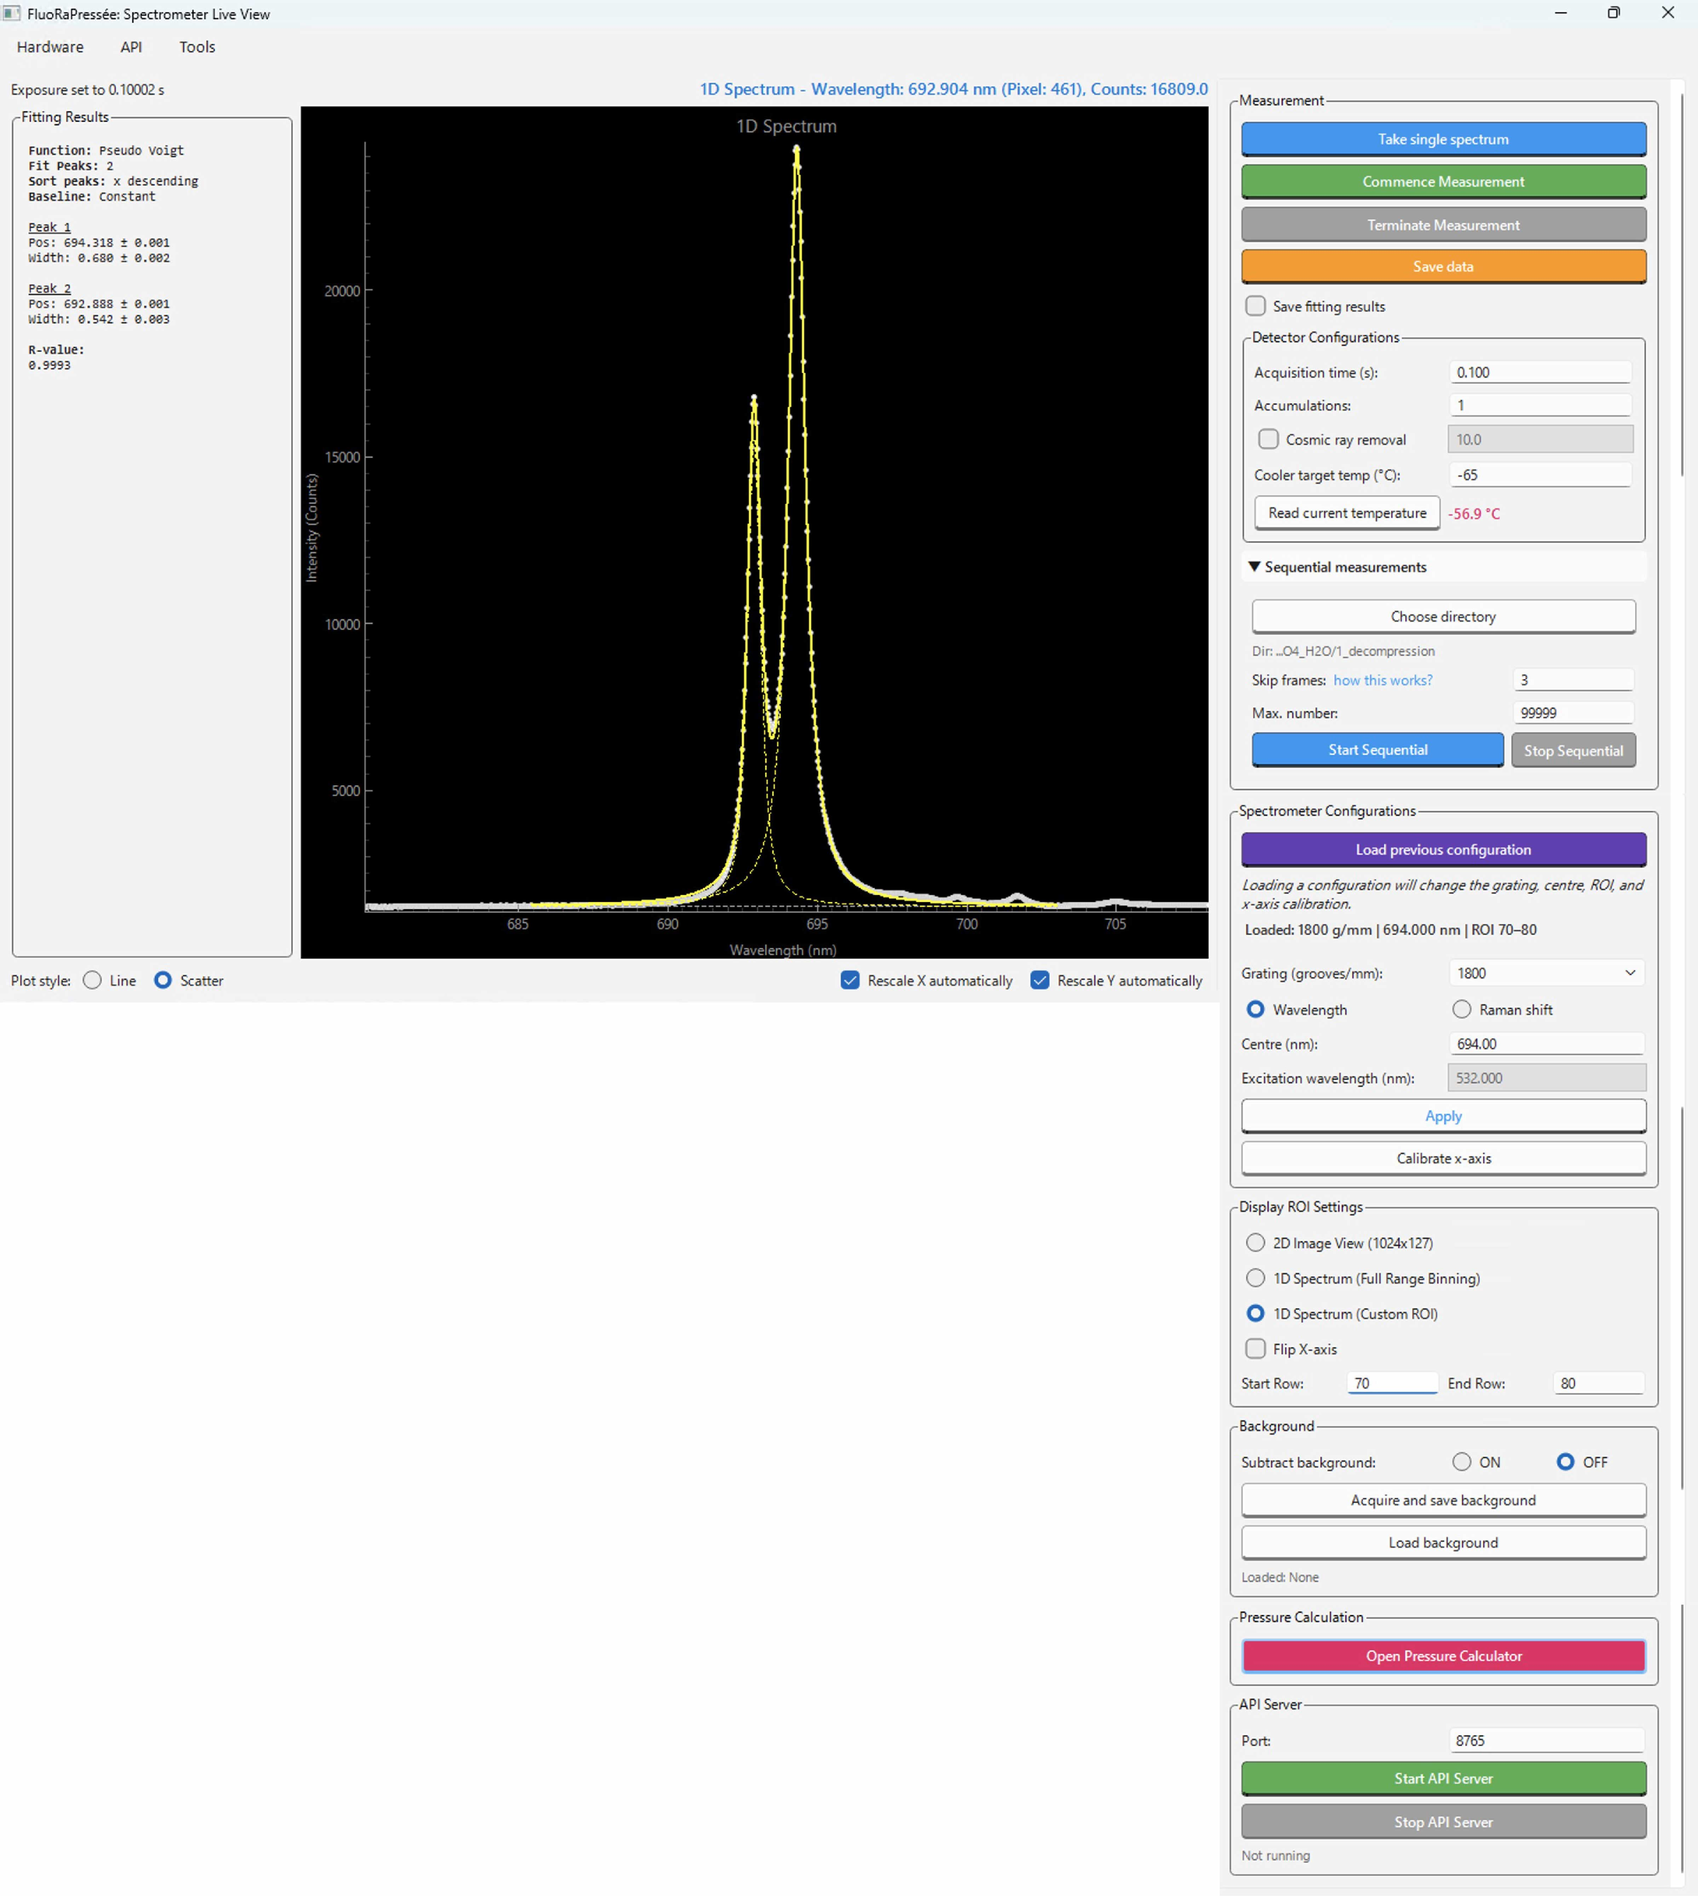
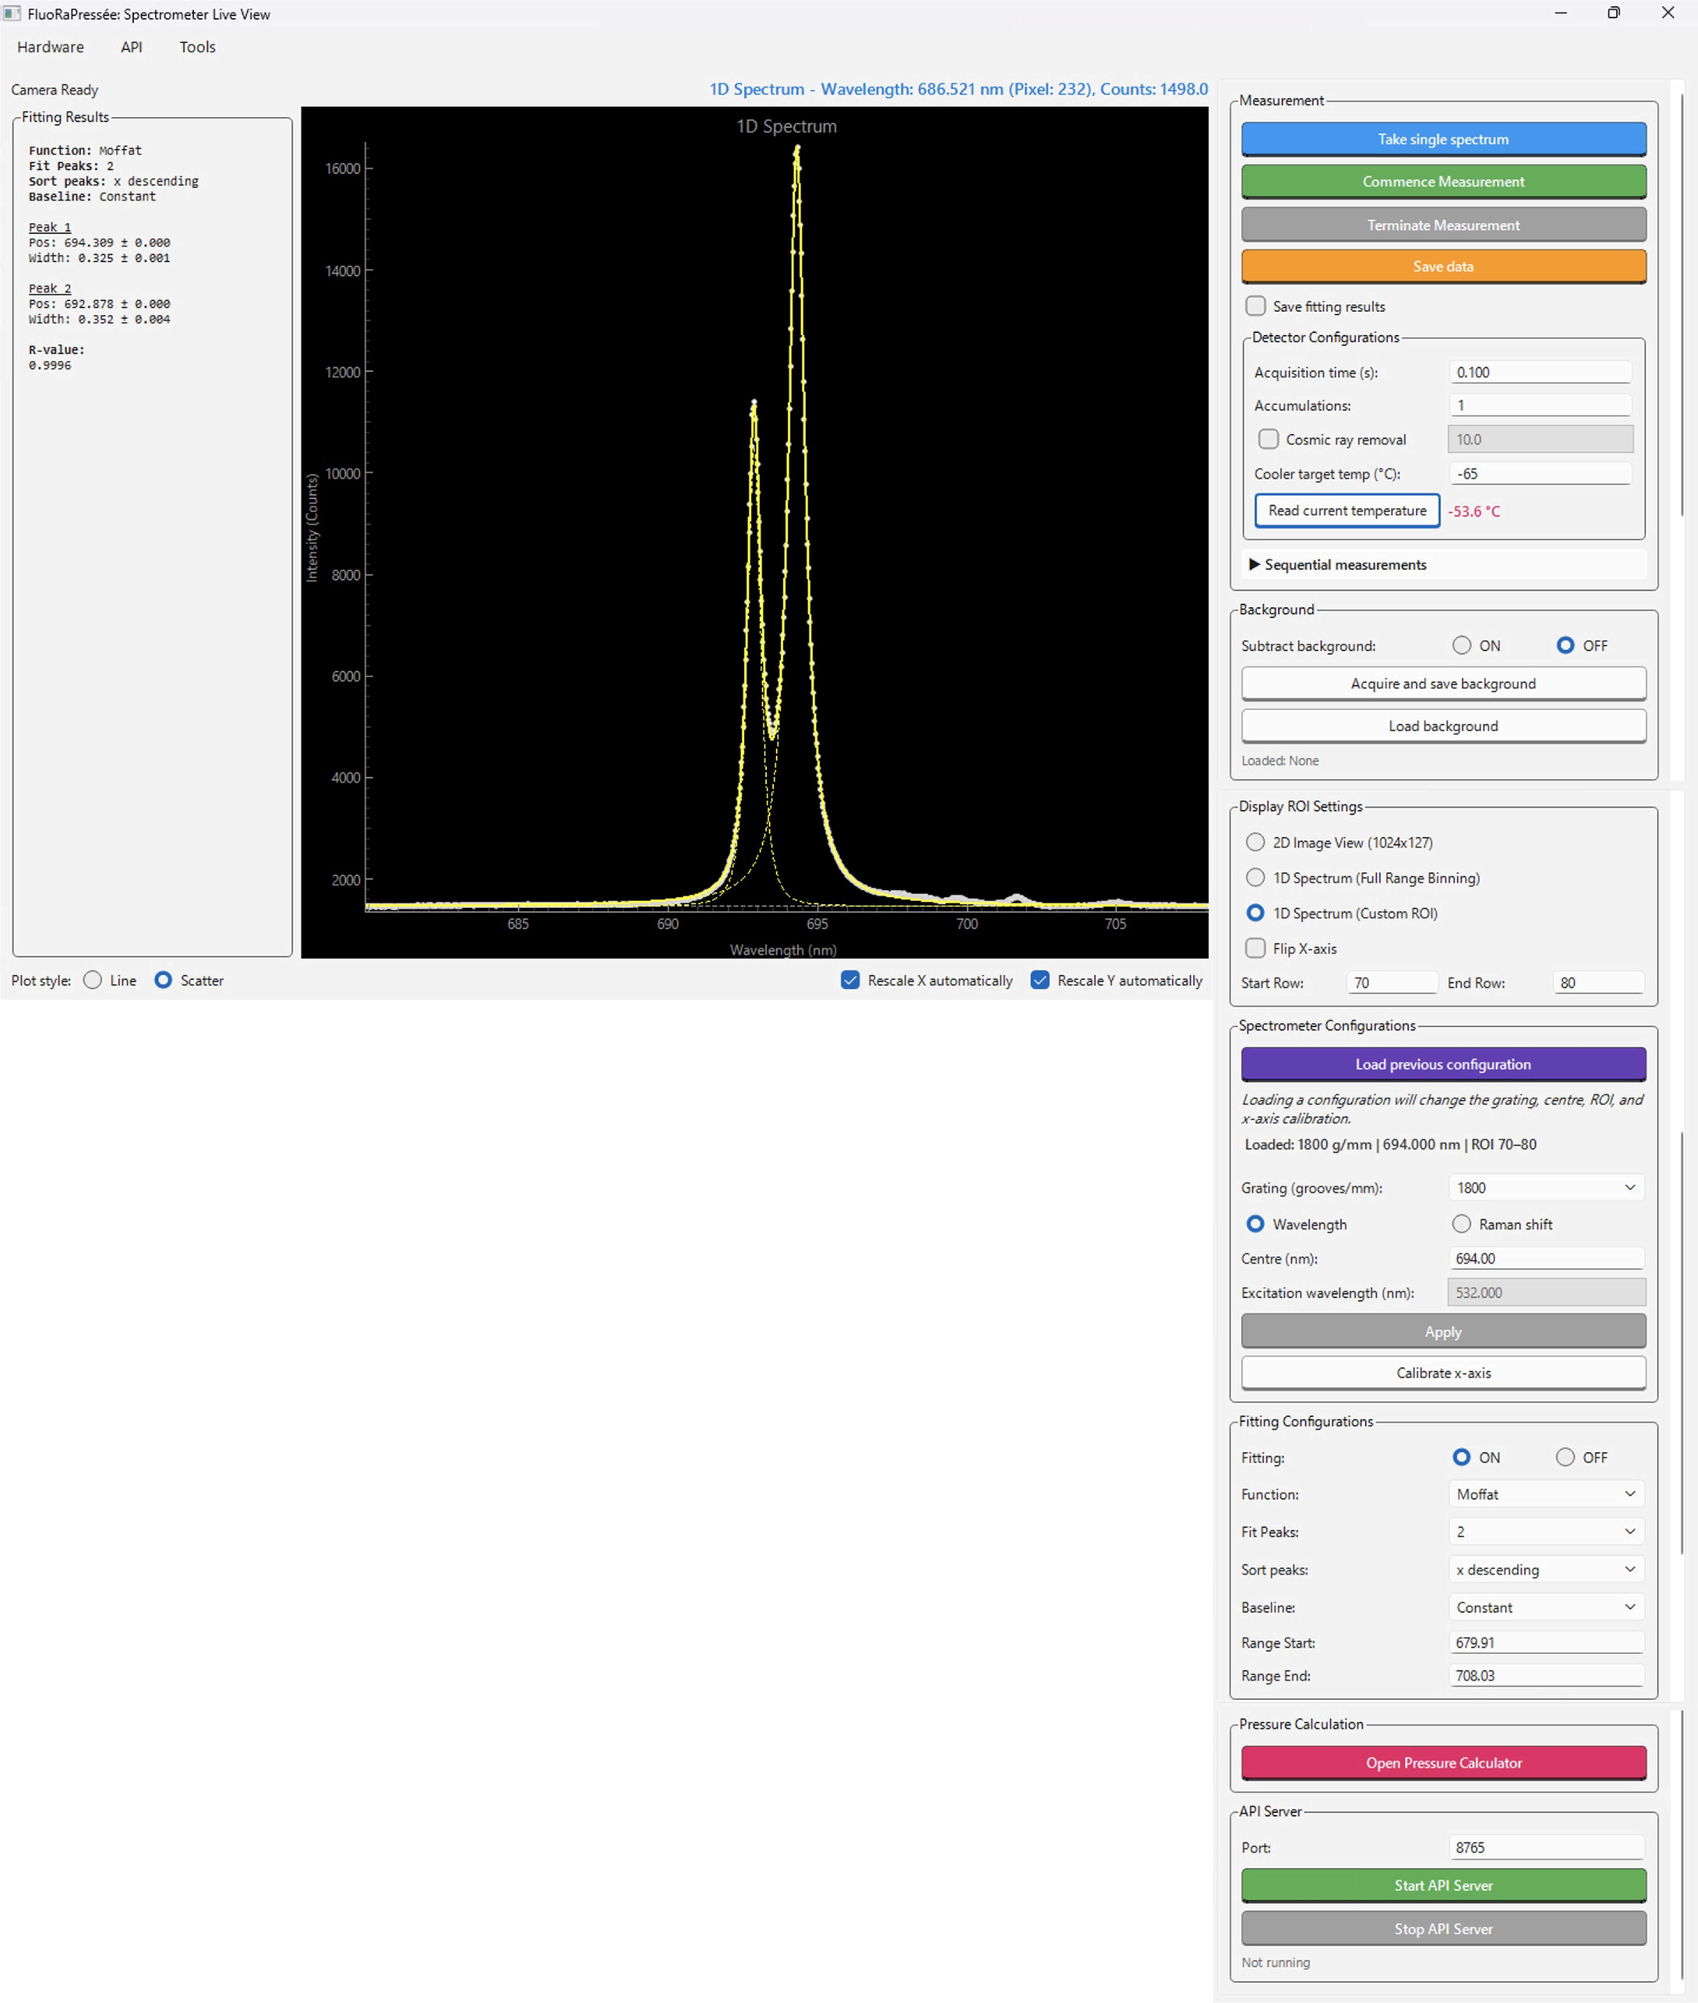
update doc

diff --git a/src/ui/main_window.py b/src/ui/main_window.py
@@ -491,7 +491,7 @@ class SpectrometerGUI(QMainWindow, ConfigMixin, FileIOMixin, SpectrometerControl
         bg_group.setLayout(bg_layout)
         controls_layout.addWidget(bg_group)
 
-        roi_group = QGroupBox("Display ROI Settings")
+        roi_group = QGroupBox("ROI Settings")
         roi_layout = QVBoxLayout()
         self.radio_2d = QRadioButton("2D Image View")
         self.radio_1d_full = QRadioButton("1D Spectrum (Full Range Binning)")

diff --git a/docs-site/docs/usage/pressure-calculation/index.md b/docs-site/docs/usage/pressure-calculation/index.md
@@ -1,32 +1,30 @@
 ---
 sidebar_position: 1
-title: 圧力計算
-description: 圧力計算ウィンドウで使えるセンサー・圧力スケール・温度補正の一覧と注意点
+title: 圧力マーカーによる圧力計算
+description: 圧力計算ウィンドウで使える圧力マーカー・圧力スケール・温度補正の一覧と注意点
 ---
 
-# 圧力計算
-
-高圧実験で用いる各種センサー（蛍光・Ramanシフト）の測定ピーク位置から圧力を求める、「圧力計算ウィンドウ」（メイン画面の「Open pressure calculator」ボタン、またはAnalysis Modeの右側パネル）についてまとめます。
+# 圧力マーカーによる圧力計算
 
 <img src={require('@site/static/img/usage_pressure_calculator.jpg').default} style={{maxWidth: '480px'}} />
 
-## センサーの種類と対応する横軸
+## 圧力マーカーの種類と対応する横軸
 
-圧力計算ウィンドウで選べるセンサーは、横軸のモード（波長 nm / Raman shift cm<sup>-1</sup>）によって以下のように分かれます。
+圧力計算ウィンドウで選べる圧力マーカーは、横軸のモード（波長 nm / Raman shift cm<sup>-1</sup>）によって以下のように分かれます。
 
-- **波長 (nm) モード・蛍光センサー**: [Ruby](ruby.md)、[Sm<sup>2+</sup>:SrB<sub>4</sub>O<sub>7</sub>](sm-srb4o7.md)、[Sm<sup>2+</sup>:SrFCl](sm-srfcl.md)、[Sm<sup>3+</sup>:YAG](sm-yag.md)
-- **Raman shift (cm<sup>-1</sup>) モード・Ramanセンサー**: [<sup>13</sup>C diamond 1st order](diamond-13c.md)、[Cubic BN TO](cubic-bn.md)、[Zircon B1g](zircon.md)、[Quartz 464 cm<sup>-1</sup>](quartz-464.md)、[Quartz 128 cm<sup>-1</sup>](quartz-128.md)
-- **Raman shift (cm<sup>-1</sup>) モード・専用フィットが必要なセンサー**: [Diamond Raman Edge](diamond-raman-edge.md)
+- **波長 (nm) モード・蛍光圧力マーカー**: [Ruby](ruby.md)、[Sm<sup>2+</sup>:SrB<sub>4</sub>O<sub>7</sub>](sm-srb4o7.md)、[Sm<sup>2+</sup>:SrFCl](sm-srfcl.md)、[Sm<sup>3+</sup>:YAG](sm-yag.md)
+- **Raman shift (cm<sup>-1</sup>) モード・Raman圧力マーカー**: [<sup>13</sup>C diamond 1st order](diamond-13c.md)、[Cubic BN TO](cubic-bn.md)、[Zircon B1g](zircon.md)、[Quartz 464 cm<sup>-1</sup>](quartz-464.md)、[Quartz 128 cm<sup>-1</sup>](quartz-128.md)
+- **Raman shift (cm<sup>-1</sup>) モード・専用フィットが必要な圧力マーカー**: [Diamond Raman Edge](diamond-raman-edge.md)
 
-メインウィンドウ／Analysis Modeの横軸モードに応じて、選択できるセンサーが自動的に絞り込まれます。
+メインウィンドウ／Analysis Modeの横軸モードに応じて、選択できる圧力マーカーが自動的に絞り込まれます。
 
 ## 圧力計算の共通の考え方（表記）
 
-各センサーのページに載せている計算式は、すべて `src/core/pressureCalc.py` の `PressureCalculator`クラスの実装をそのまま数式に書き下したものです。
+各圧力マーカーのページに載せている計算式は、すべて `src/core/pressureCalc.py` の `PressureCalculator`クラスの実装をそのまま数式に書き下したものです。
 ページ間で共通して使う記法は次の通りです。
 
-- 波長モードの蛍光センサー: $\lambda$ = 現在のピーク位置 (nm)、$\lambda_0$ = ゼロ圧ピーク位置 (nm)、$\Delta\lambda = \lambda - \lambda_0$
-- Raman shiftモードのセンサー: $\nu$ = 現在のピーク位置 (cm<sup>-1</sup>)、$\nu_0$ = ゼロ圧ピーク位置 (cm<sup>-1</sup>)、$\Delta\nu = \nu - \nu_0$
+- 波長モードの蛍光圧力マーカー: $\lambda$ = 現在のピーク位置 (nm)、$\lambda_0$ = ゼロ圧ピーク位置 (nm)、$\Delta\lambda = \lambda - \lambda_0$
+- Raman shiftモードの圧力マーカー: $\nu$ = 現在のピーク位置 (cm<sup>-1</sup>)、$\nu_0$ = ゼロ圧ピーク位置 (cm<sup>-1</sup>)、$\Delta\nu = \nu - \nu_0$
 - $T$ = Current T（現在温度、K）、$T_0$ = Reference T0（基準温度、K）
 - 添字T0付きの $\lambda_{0,T_0}$ / $\nu_{0,T_0}$ は「基準温度 $T_0$ で実測したゼロ圧ピーク位置」、すなわちUIの Zero-pressure peak at T0 欄の値を指します
 
@@ -36,17 +34,17 @@ $$
 \lambda_0(T) = \lambda_{0,T_0} + \big[f(T) - f(T_0)\big]
 $$
 
-（Ramanセンサーでは $\lambda_0$ を $\nu_0$ に読み替えます。）
+（Raman圧力マーカーでは $\lambda_0$ を $\nu_0$ に読み替えます。）
 $f(T)$ の絶対値そのものが正確でなくても、$T_0$ での実測値 $\lambda_{0,T_0}$ を基準に差分だけを適用するため、相対的なシフト量さえ文献の値と合っていれば正しく補正されます。
-具体的な $f(T)$ の形は各センサーのページに記載しています。
+具体的な $f(T)$ の形は各圧力マーカーのページに記載しています。
 
-温度補正が**必須**なスケール（`temperature_mode = "embedded_pt"`）ではこのオフセット補正は行われず、圧力の式 $P$ 自体が $T$ を直接の変数として含みます（式は各センサーのページを参照してください）。
+温度補正が**必須**なスケール（`temperature_mode = "embedded_pt"`）ではこのオフセット補正は行われず、圧力の式 $P$ 自体が $T$ を直接の変数として含みます（式は各圧力マーカーのページを参照してください）。
 
 ## 共通の操作
 
 1. **Sensor** と **Pressure Scale** を選びます。
 2. **Zero-pressure peak position（ゼロ圧ピーク位置）** を入力します。
-   センサーごとに文献の代表値が初期値として自動入力されますが、これはあくまで目安です。
+   圧力マーカーごとに文献の代表値が初期値として自動入力されますが、これはあくまで目安です。
    実際の測定系・試料で測ったゼロ圧位置（大気圧・室温での位置）を必ず自分で測定し、入力し直してください。
 3. 現在のピーク位置はフィッティング結果から自動的に読み込まれます。
    複数ピークをフィットした場合は「Calculate pressure by」でどのピークを圧力計算に使うか選択します。
@@ -54,7 +52,7 @@ $f(T)$ の絶対値そのものが正確でなくても、$T_0$ での実測値 
 
 ## 温度補正の3パターン
 
-センサー・圧力スケールの組み合わせによって、温度補正の扱いは次の3パターンのいずれかになります。
+圧力マーカー・圧力スケールの組み合わせによって、温度補正の扱いは次の3パターンのいずれかになります。
 
 - **補正なし・補正手段もない**: ゼロ圧ピーク位置の温度シフトを表す補正式が用意されていません。
   「Temperature Correction」のOn/Offは切り替えられますが、Onにしても実質的に値は変化しません（あるいは温度補正欄自体が非表示になります）。
@@ -62,16 +60,16 @@ $f(T)$ の絶対値そのものが正確でなくても、$T_0$ での実測値 
   On/Offのラジオボタンで切り替え可能です。
 - **補正が必須**: 圧力スケールの数式自体が現在温度を直接使います（コード内では`temperature_mode = "embedded_pt"`）。
   On/Offの切り替えUIは非表示になり常にOnとなり、「Temperature input is mandatory for this scale!」と赤字で警告表示されます。
-  この種のスケールの一部は、基準温度T0も文献の基準値に固定され、変更できません（各センサーのページを参照）。
+  この種のスケールの一部は、基準温度T0も文献の基準値に固定され、変更できません（各圧力マーカーのページを参照）。
 
 :::caution
 現在温度が、選択した温度スケール（または温度補正必須スケールの有効範囲）の外にある場合、Current Tの入力欄が赤くなり "Warning: T out of range" と表示されます。
 ただし計算そのものは止まらず、範囲外でも外挿してそのまま圧力が計算されるため、警告が出た場合は文献の適用範囲を確認したうえで結果を解釈してください。
 :::
 
-## センサー一覧
+## 圧力マーカー一覧
 
-| センサー | 種類 | 単位 | 圧力スケール数 | 温度補正 |
+| 圧力マーカー | 種類 | 単位 | 圧力スケール数 | 温度補正 |
 |---|---|---|---|---|
 | [Ruby](ruby.md) | 蛍光 | nm | 8 | 任意（6スケールから選択） |
 | [Sm<sup>2+</sup>:SrB<sub>4</sub>O<sub>7</sub>](sm-srb4o7.md) | 蛍光 | nm | 4 | 任意（2スケールから選択） |

diff --git a/README_ja.md b/README_ja.md
@@ -1,5 +1,7 @@
 # FluoRaPressée: Spectrometer Control & Analysis GUI
 
+<img src="./logo/Large_logo.jpg" width="50%">
+
 * Author: Hiroki Kobayashi (Geochemical Research Center, The University of Tokyo). 
     * https://orcid.org/0000-0002-3682-7558 
     * E-mail as of 2026: hiroki (at) eqchem.s.u-tokyo.ac.jp
@@ -79,50 +81,6 @@ Analysis Modeの起動には、カメラ・分光器の接続、装置SDK、``sp
 cd docs-site
 NODENV_VERSION=22.22.0 npm start
 ```
-
-## スクリーンショット
-
-
-### メイン画面
-
-![](docs-site/static/img/manual/MainWindowFull.jpg)
-
-* スペクトルの取得、保存
-    * 単発測定および連続測定
-    * インターバルを指定した連続保存・連続解析もできます。
-* 分光器の基本的な制御（回折格子の変更、中心位置の変更）
-* ROI の設定、イメージモード（CCDで取得した画像をそのまま出力）への切り替え
-* バックグラウンドの取得と差し引き
-* ピーク函数を用いたフィッティング
-* 圧力計算ウィンドウを開く
-
-
-
-### 横軸較正画面（「Calibrate x-axis」ボタンをクリックして開く）
-
-![](docs-site/static/img/manual/CalibrationWindow.png)
-
-* 標準試料のスペクトルを取得し、ピーク検索、Gaussian函数によるピークフィット、波長の較正までを行えます。
-
-
-### 横軸較正補助画面
-
-![](docs-site/static/img/manual/CalibrationHelperWindow.png)
-
-* よく使うネオンの波長領域のスペクトル（事前に測定してプログラム中に保存したもの）を表示してピークの帰属の参考にできます。
-
-
-### フィッティング
-
-* Pseudo-Voigt, Moffat, Gaussian, Lorenzian の4種類の関数に対応
-* ピーク数の最大は５まで。
-
-
-
-### 圧力計算画面（「Open pressure calculator」ボタンをクリックして開く）
-
-![](docs-site/static/img/manual/PressureCalculator.png)
-
 
 
 

diff --git a/docs-site/docs/usage/acquisition.md b/docs-site/docs/usage/acquisition.md
@@ -6,9 +6,12 @@ description: 露光時間・積算回数・ROIの設定
 
 # 露光・保存
 
-露光に関する設定、2次元検出器のROIに関する設定、およびbackgroundの差し引きに関する設定は、それぞれ **Measurement**・**Display ROI Settings**・**Background** から行います。
+露光に関する設定、2次元検出器のROIに関する設定、およびbackgroundの差し引きに関する設定は、それぞれ **Measurement**・**ROI Settings**・**Background** から行います。
 
-![](../../static/img/usage_acquisition_measurement.jpg)
+
+<img src={require('@site/static/img/usage_acquisition.jpg').default} style={{maxWidth: '480px'}} />
+
+
 
 ## 露光時間
 
@@ -37,7 +40,7 @@ description: 露光時間・積算回数・ROIの設定
 
 ## ROI
 
-**Display ROI Settings** パネルで、検出器のどの範囲をどう読み出すかを選びます。
+**ROI Settings** パネルで、検出器のどの範囲をどう読み出すかを選びます。
 
 - **2D Image View**: 検出器の生の2Dイメージをそのまま表示します（垂直方向のビニングなし）。
 - **1D Spectrum (Full Range Binning)**: 検出器の全行を1本のスペクトルに合算します。

diff --git a/docs-site/docs/usage/grating-calibration.md b/docs-site/docs/usage/grating-calibration.md
@@ -11,7 +11,8 @@ description: 回折格子・中心波長の制御と、横軸較正の流れ
 
 ## 回折格子・中心波長の制御
 
-パネルには以下のコントロールがあります。
+<img src={require('@site/static/img/usage_configuration.jpg').default} style={{maxWidth: '480px'}} />
+
 
 - **Grating (grooves/mm)**: 使用する回折格子。
   表示はgrooves/mm値ですが、実際に分光器へ送られるのは[Hardware Configurationのgrating一覧](menu/hardware/hardware-configuration.md)で定義した物理タレット番号です。
